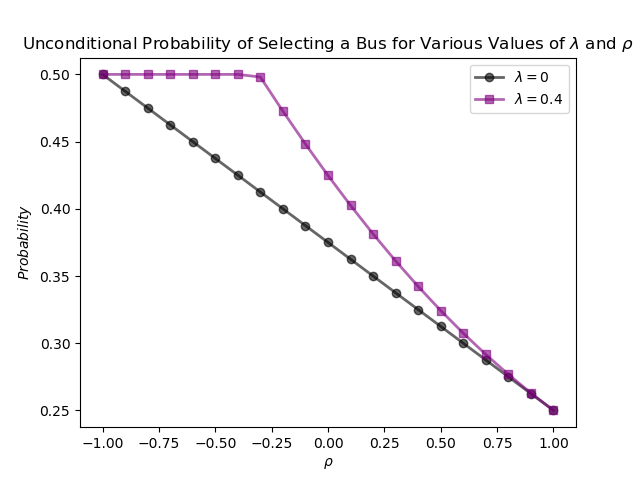
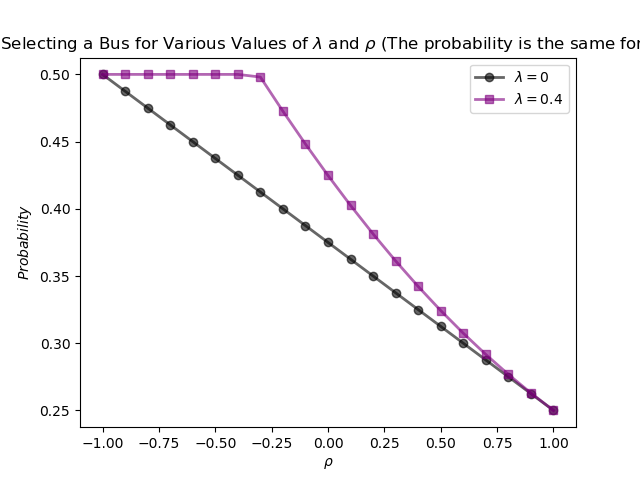
bugfixes and a report on the optimality bound

Changed region(s): [[0.0, 0.0625, 1.0, 0.125]]

diff --git a/README.md b/README.md
@@ -1,9 +1,8 @@
-# RICoverAlg.jl
+# RICoverAlg
 This is a Julia repository to compute solutions for a discrecte rational inattention problem (Sims 2003, https://doi.org/10.1016/S0304-3932(03)00029-1) using the algorithm suggested by Thomas Cover (1984, https://doi.org/10.1109/TIT.1984.1056869).
 
 ## Installing this Package
-Since this package is not registered, you must install it by cloning. To add this package, type "]" in the REPL to enter the pkg manager and execute: 
-
+Since this package is not registered, you must install it by cloning. To add this package, type "]" in the REPL to enter the pkg manager and execute:
     clone("https://github.com/frankhuettner/RICoverAlg.jl")
 
 
@@ -24,18 +23,18 @@ The code below creates Figure 1 of Matejka and McKay (2015, http://dx.doi.org/10
         1/2 1/2 1/2 1/2]
     λ = 0.4
     ρ = 0
-    results = []
+    res = []
     for ρ=-1:0.1:1
         g = [1+ρ; 1-ρ; 1-ρ; 1+ρ]./4
         result = risolve(UtilTable, g, λ)
-        push!(results,result[1][1])
+        push!(res,result[1][1])
     end
 
     fig, ax = subplots()
     ax[:plot](collect(-1:.1:1),collect(0.5:-0.0125:0.25), color="black", marker="o",   linewidth=2, label=L"$\lambda = 0$", alpha=0.6)
     ax[:plot](collect(-1:.1:1),res, color="purple", marker="s",  linewidth=2, label=L"$\lambda = 0.4$", alpha=0.6)
     ax[:legend](loc="upper right")
-    ax[:set_title](L"Unconditional Probability of Selecting a Bus for Various Values of $\lambda$ and $\rho$")
+    ax[:set_title](L"Unconditional Probability of Selecting a Bus for Various Values of $\lambda$ and $\rho$ (The probability is the same for both the red and blue buses)")
     ax[:set_xlabel](L"$\rho$")
     ax[:set_ylabel](L"Probability")
     # savefig("plot") #uncomment to safe the figure
